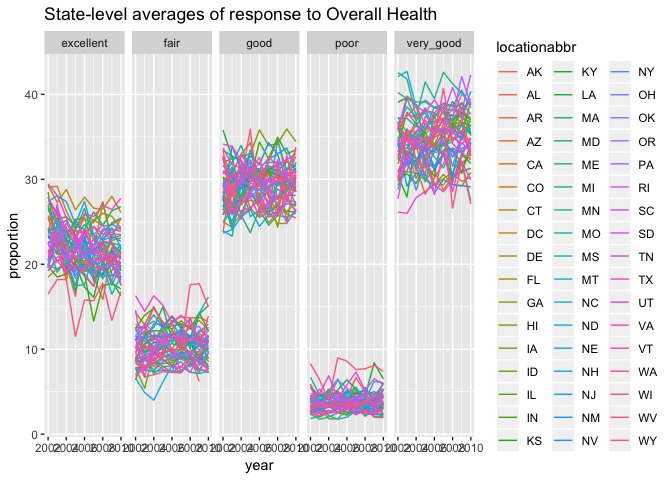
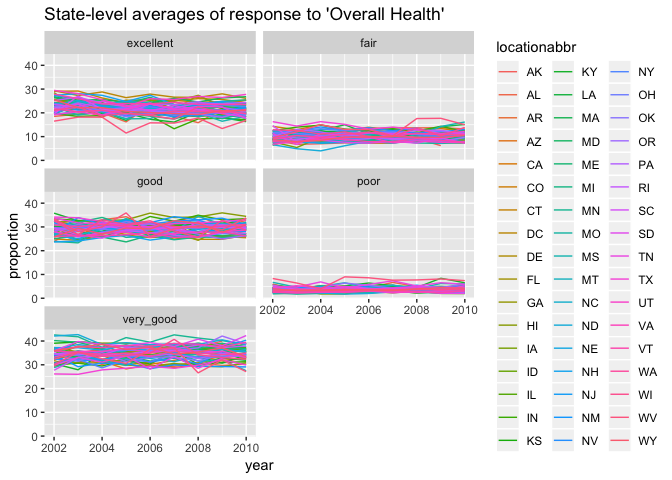
problem 2 - finished bar plot

Changed region(s): [[0.0312, 0.0, 0.7188, 0.9688], [0.0938, 0.0625, 0.1562, 0.125], [0.0312, 0.8438, 0.0625, 0.875]]

diff --git a/p8105_hw3.md b/p8105_hw3.md
@@ -1,4 +1,4 @@
-P8105\_hw3
+P8105\_hw3\_tt2714
 ================
 Tiffany Tu
 10/8/2018
@@ -44,6 +44,7 @@ NYdata = overallhealth_brfss_smart2010 %>%
 
 NY_mean = c(mean(NYdata$year == 2002), mean(NYdata$year == 2006), mean(NYdata$year == 2010))
 NY_sd = c(sd(NYdata$year == 2002), sd(NYdata$year == 2006), sd(NYdata$year == 2010))
+
 NYsummarytable = data.frame(NY_mean, NY_sd) 
 row.names(NYsummarytable) = c("2002", "2006", "2010")
 kable(NYsummarytable, caption = "Mean and standard deviation of 'Excellent' Responses in NY")
@@ -66,17 +67,34 @@ annual_average = overallhealth_brfss_smart2010 %>%
   gather(key = response, value = proportion, -year, -locationabbr) %>% 
   na.omit()
 
-ggplot(data = annual_average, aes(x = year, y = proportion, colour = locationabbr)) + geom_line() + facet_grid(~ response, space = "free_y") + ggtitle("State-level averages of response to Overall Health")
+ggplot(data = annual_average, aes(x = year, y = proportion, colour = locationabbr)) + geom_line() + facet_wrap(~ response, ncol = 2) + ggtitle("State-level averages of response to 'Overall Health'")
 ```
 
 ![](p8105_hw3_files/figure-gfm/average%20across%20location%20in%20state-1.png)<!-- -->
 
 ## Problem 2
 
-There are 134 aisles.
+The original dataset has 15 columns and 1384617 rows, containing a lot
+of repetitive data. We have orders IDs, each with multiple rows on
+ordered product IDs, the order in which the product was added to the
+cart, user ID, and more columns on product information such as product
+aisle and department.
+
+For example, in order ID \#36, we have 8 products ordered under
+user\#112108. The order was placed 30 days ago and products are under
+the following departments: dairy eggs, beverages, produce, deli.
+
+There are a total of 134 aisles. Most items are ordered from the fresh
+vegetables aisle and least ordered from beauty.
 
 ``` r
 data(instacart)
+aisle_count = instacart %>% 
+  group_by(aisle, department) %>% 
+  summarise(n = n()) %>% 
+  mutate(split = ifelse(n > 4723, "more than 4723 ordered", "less than 4723 ordered"))
 
-insta = instacart
+ggplot(aisle_count, aes(x = aisle, y = n, fill = department)) + geom_bar(stat="identity") + labs(title = "Number of Items ordered in each Aisle", y = "count") + theme(axis.text.y = element_text(angle = 20, hjust = 1)) + facet_wrap(~ split, scales = "free",  ncol = 2) + theme(axis.text.x = element_text(angle = 65, hjust = 1), axis.text.y = element_text(size = 10), plot.title = element_text(size = 22), legend.text = element_text(size = 13), axis.title.x = element_text(size = 18), axis.title.y = element_text(size = 18), legend.title=element_text(size=18)) + coord_flip()
 ```
+
+![](p8105_hw3_files/figure-gfm/unnamed-chunk-3-1.png)<!-- -->
